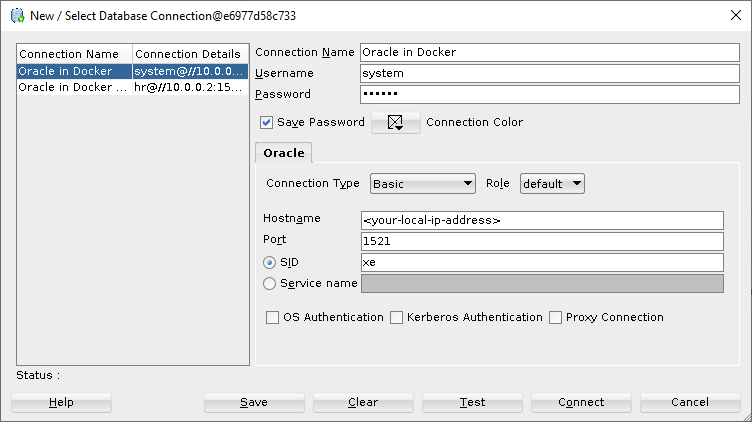
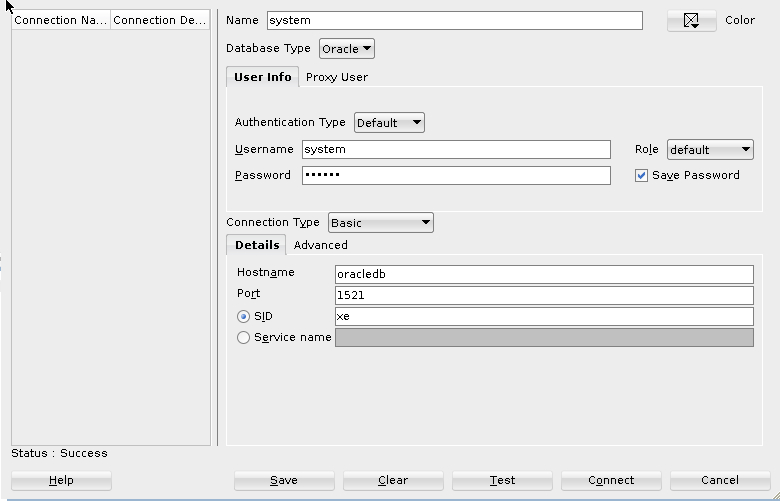
Enhance documentation

diff --git a/README.md b/README.md
@@ -13,20 +13,9 @@ The installation process has always been a bit of a hassle, especially consideri
 Having enrolled in an Engineering University for Computer science and not wanting to face the same experience again, I decided to run it all in docker containers and get on with life.
 And potentially helping people who face the same issue in the future.
 
-## I. TODO: Refactoring: Getting started
+## I. Getting started
 
 This guide was tested on Windows with git bash and on Linux runing PopOS 22.04
-
-- First of all, create the directory `./tmp/sqldeveloper` in the current directory to persist the data in.
-
-```bash
-mkdir -p ./tmp/sqldeveloper ./tmp/oracle
-```
-
-- **Windows:** Sharing a display from a Windows Host with `VcXsrv` is needed since SQLDeveloper is a GUI app. We need to set up a way to display it on the host from the container. For that, please follow [this short guide](https://dev.to/darksmile92/run-gui-app-in-linux-docker-container-on-windows-host-4kde).
-- **Linux:** If you're using X11 (almost always the case), no extra steps are needed.
-
-- Run the contains with
 
 ```bash
 make start
@@ -36,13 +25,16 @@ And you're all good! Simply use the following credentials to connect to your ora
 
 ![sqldeveloper-login](./media/sqldeveloper-login.JPG)
 
-- To stop the containers, simply close the SQLDeveloper window and
+- To stop the containers, simply do a stop
 
 ```
 make stop
 ```
 
-## II. Extra setup
+Note that this will neither delete your OracleDB data nor your SQLDeveloper pereferences.
+In order to do just that, you would have to `make delete`.
+
+## II. Extra setup (TODO: Configure HR sample script)
 
 You might also want to unlock the HR account to have access to the [HR (or Human Resources) schema](https://www.webucator.com/article/oracles-demo-hr-schema/) which is just a collection of useful tables often used for testing.
 
@@ -108,6 +100,7 @@ password: oracle
 
 ## Roadmap
 
-- [ ] [Add persistance for the database](https://stackoverflow.com/a/65409258/10543130)
+- [x] [Add persistance for the database](https://stackoverflow.com/a/65409258/10543130)
 - [x] [Auto detect platform](https://stackoverflow.com/questions/394230/how-to-detect-the-os-from-a-bash-script)
-- [ ] Expose a VNC Server instead of X11
+- [x] Expose a VNC Server instead of X11
+- [ ] [Add sample data on init](https://hub.docker.com/r/gvenzl/oracle-xe)
